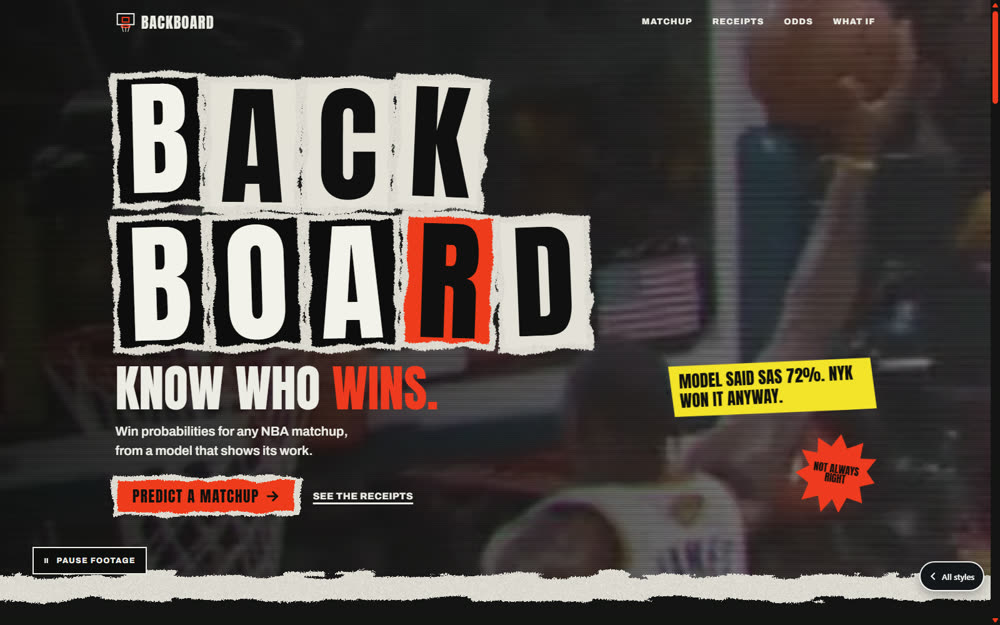
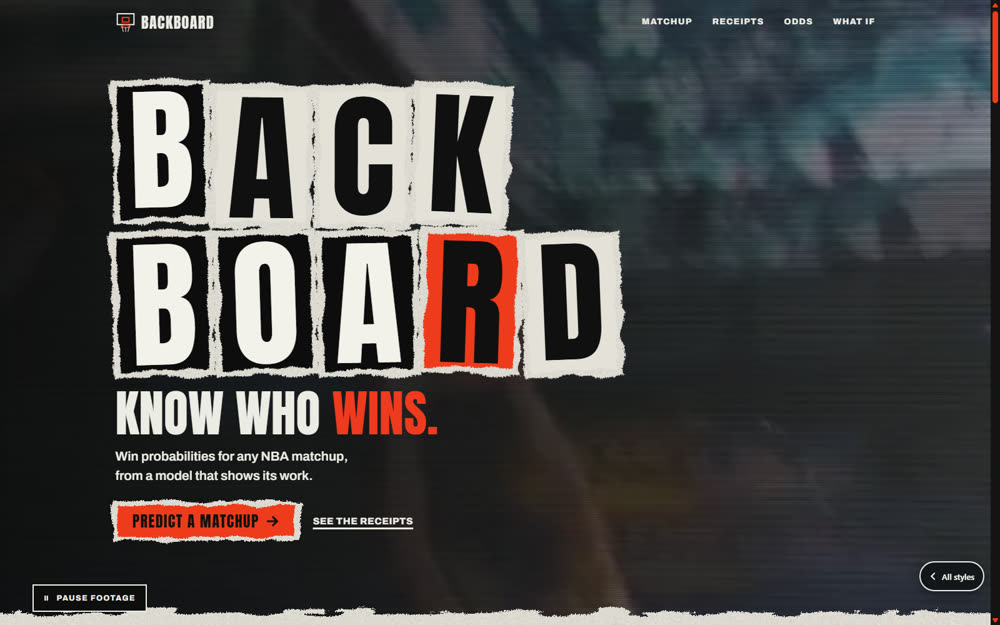
Street zine: drop hero stickers, make the hero fill the viewport

diff --git a/design/backboard-demos/street-zine/index.html b/design/backboard-demos/street-zine/index.html
@@ -77,7 +77,7 @@
   .link { font-weight: 800; letter-spacing: 0.04em; text-transform: uppercase; font-size: 0.95rem; text-underline-offset: 0.3em; text-decoration-thickness: 3px; }
 
   /* ---------- cover ---------- */
-  .cover { min-height: min(100dvh, 940px); display: grid; align-items: center; padding-block: 5.5rem 5rem; overflow: hidden; }
+  .cover { min-height: 100vh; min-height: 100svh; display: grid; align-items: center; padding-block: 5.5rem 5.5rem; overflow: hidden; }
   .herobg { position: absolute; inset: 0; z-index: 0; background: #0a0a0a; }
   .herobg img, .herobg video { position: absolute; inset: 0; width: 100%; height: 100%; object-fit: cover; filter: grayscale(0.25) contrast(1.12) brightness(0.82); }
   .herobg::after { content: ""; position: absolute; inset: 0; background: linear-gradient(90deg, rgb(10 10 10 / 0.86), rgb(10 10 10 / 0.6) 55%, rgb(10 10 10 / 0.3)), repeating-linear-gradient(0deg, rgb(0 0 0 / 0.2) 0 1px, transparent 1px 3px); }
@@ -86,10 +86,7 @@
   .bgpp svg { width: 14px; height: 14px; fill: currentColor; }
   .bgpp .ic-play, .bgpp .t-play { display: none; } .bgpp[data-state="paused"] .ic-play, .bgpp[data-state="paused"] .t-play { display: inline; } .bgpp[data-state="paused"] .ic-pause, .bgpp[data-state="paused"] .t-pause { display: none; }
   .bgpp[data-state="paused"] svg.ic-play { display: block; }
-  .stickers { position: relative; z-index: 3; display: grid; gap: 2rem; justify-items: start; align-self: end; max-width: 330px; justify-self: end; }
-  .vtag { max-width: 100%; font: 700 0.95rem/1.25 var(--f-type); text-transform: uppercase; color: var(--ink); background: var(--yellow); padding: 0.7rem 1rem; transform: rotate(-3deg); clip-path: polygon(0 0, 98% 3%, 100% 100%, 2% 96%); }
-  .vtag b { font: 400 1.7rem/1 var(--f-head); }
-  .cover > .wrap { width: 100%; display: grid; grid-template-columns: minmax(0, 8fr) minmax(0, 4fr); gap: clamp(1rem, 3vw, 3rem); align-items: center; }
+  .cover > .wrap { width: 100%; display: grid; grid-template-columns: minmax(0, 1fr); align-items: center; }
   .nav { position: absolute; z-index: 20; top: 0; left: 0; right: 0; }
   .nav .wrap { display: flex; align-items: center; justify-content: space-between; height: 72px; }
   .brand { display: flex; align-items: center; gap: 0.6rem; text-decoration: none; font: 400 1.5rem/1 var(--f-head); letter-spacing: 0.06em; text-transform: uppercase; }
@@ -98,7 +95,7 @@
   .nav nav a { text-decoration: none; font: 800 0.85rem var(--f-body); letter-spacing: 0.1em; text-transform: uppercase; padding: 0.6rem 0; border-bottom: 3px solid transparent; }
   .nav nav a:hover { border-color: var(--red); }
   .mastcol { container-type: inline-size; min-width: 0; }
-  .mast { display: flex; flex-direction: column; gap: 0.06em; font-size: clamp(4rem, 26.5cqw, 14rem); font-weight: 400; }
+  .mast { display: flex; flex-direction: column; gap: 0.06em; font-size: clamp(4rem, min(19cqw, 22svh), 15rem); font-weight: 400; }
   .row { display: flex; flex-wrap: nowrap; gap: 0.05em; }
   .tile { position: relative; isolation: isolate; display: inline-block; line-height: 0.95; padding: 0.03em 0.1em 0; font-family: var(--f-head); color: var(--ink); transform: translateY(var(--y, 0)) rotate(var(--r, 0deg)); font-size: var(--s, 1em); }
   .tile.f2 { font-family: var(--f-rans); }
@@ -109,7 +106,6 @@
   .say em { font-style: normal; color: var(--red); }
   .sub { margin-top: 1rem; max-width: 34ch; font-size: clamp(1.05rem, 1.5vw, 1.3rem); font-weight: 600; }
   .go { display: flex; flex-wrap: wrap; align-items: center; gap: 1.6rem; margin-top: 1.8rem; }
-  .star { position: relative; z-index: 7; justify-self: end; transform: rotate(8deg); width: 128px; aspect-ratio: 1; display: grid; place-items: center; text-align: center; background: var(--red); color: var(--ink); font: 400 1rem/0.95 var(--f-head); text-transform: uppercase; padding: 1.2rem; clip-path: polygon(50% 0, 60% 17%, 79% 7%, 78% 27%, 98% 25%, 88% 42%, 100% 55%, 82% 62%, 88% 82%, 68% 78%, 60% 98%, 50% 82%, 38% 100%, 32% 80%, 12% 88%, 18% 66%, 0 55%, 16% 44%, 4% 26%, 24% 27%, 22% 8%, 40% 17%); }
 
   /* ---------- matchup ---------- */
   .duo { display: grid; grid-template-columns: minmax(0, 1fr) minmax(0, 1.15fr) minmax(0, 1fr); gap: clamp(1rem, 3vw, 3rem); align-items: center; margin-top: 3rem; }
@@ -219,10 +215,8 @@
   @media (prefers-reduced-motion: reduce) { html { scroll-behavior: auto; } .flip-in { transition: none; } }
   @media (max-width: 900px) {
     .nav nav { display: none; }
-    .cover { min-height: auto; padding-top: 5rem; }
+    .mast { font-size: clamp(4rem, min(26.5cqw, 24svh), 9rem); }
     .cover > .wrap, .duo, .rc, .odds { grid-template-columns: minmax(0, 1fr); }
-    .stickers { justify-self: start; margin-top: 1rem; grid-auto-flow: row; }
-    .star { width: 100px; justify-self: start; }
     .bgpp { bottom: 0.9rem; }
     .duo .side.away { order: 3; } .duo .center { order: 2; }
     .flipper { --w: min(58vw, 250px); }
@@ -258,10 +252,6 @@
       <p class="say" aria-hidden="true">Know who <em>wins.</em></p>
       <p class="sub">Win probabilities for any NBA matchup, from a model that shows its work.</p>
       <div class="go"><a class="btn" href="#matchup">Predict a matchup <svg viewBox="0 0 24 24" aria-hidden="true" focusable="false"><path d="M3 12h15M12 5l7 7-7 7"/></svg></a><a class="link" href="#receipts">See the receipts</a></div>
-    </div>
-    <div class="stickers">
-      <div class="vtag" id="vtag" aria-live="polite"></div>
-      <div class="star" aria-hidden="true">Not always right</div>
     </div>
   </div>
 </header>
@@ -418,15 +408,6 @@
     new IntersectionObserver((es) => es.forEach((e) => { if (e.isIntersecting) { vid.play().catch(() => {}); } else { vid.pause(); } })).observe(vid);
   }
 
-  function coverTag() {
-    const [hi, ai] = BB.featured[0];
-    const p = BB.predict(hi, ai);
-    const champ = BB.teams.find((t) => t.po && t.po.actual === "won the title");
-    const inPair = champ && (champ === p.home || champ === p.away);
-    const line = inPair ? (champ === p.favTeam ? `Model said ${p.favTeam.abbr} ${fmt.pct0(p.favP)}%. ${champ.abbr} won it.` : `Model said ${p.favTeam.abbr} ${fmt.pct0(p.favP)}%. ${champ.abbr} won it anyway.`) : `Finals: ${p.favTeam.abbr} ${fmt.pct0(p.favP)}%.`;
-    $("#vtag").innerHTML = `<b>${line}</b>`;
-  }
-
   /* ---------- matchup ---------- */
   const flipped = { h: false, a: false };
   function faceHTML(t, color, role) {
@@ -539,7 +520,7 @@
   paintQuick();
   repaint = BB.bindPicker({ homeEl: $("#home"), awayEl: $("#away"), swapEl: $("#swap") });
   BB.state.subscribe((p) => { paintCards(p); paintCenter(p); paintTags(p); syncQuick(); });
-  coverTag(); paintReceipts(); paintOdds(); paintWhatIf();
+  paintReceipts(); paintOdds(); paintWhatIf();
   $("#fine").textContent = `Historical NBA data through ${BB.meta.latestGame}. Team strength frozen ${BB.meta.strengthFrozen}. No live feed. Hero footage is a 90s dunk montage edit.`;
 })();
 </script>
